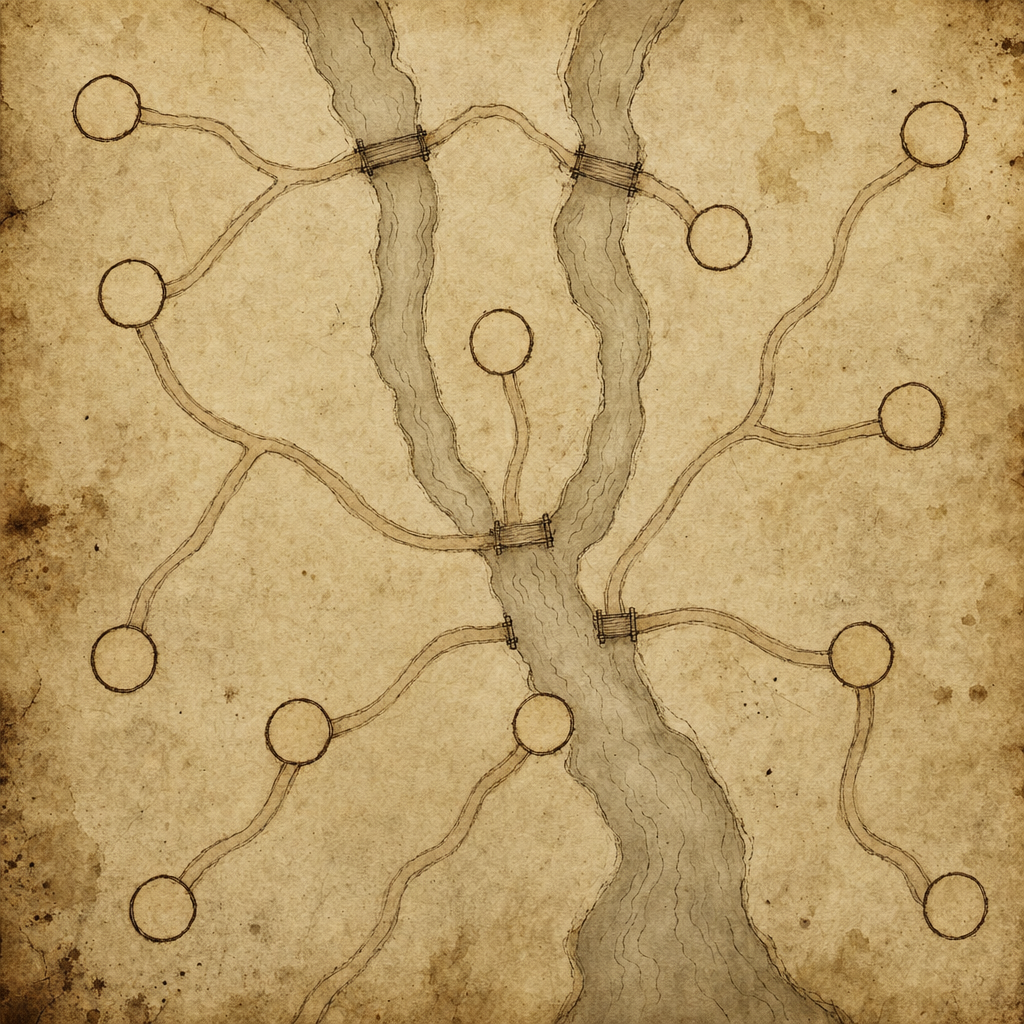
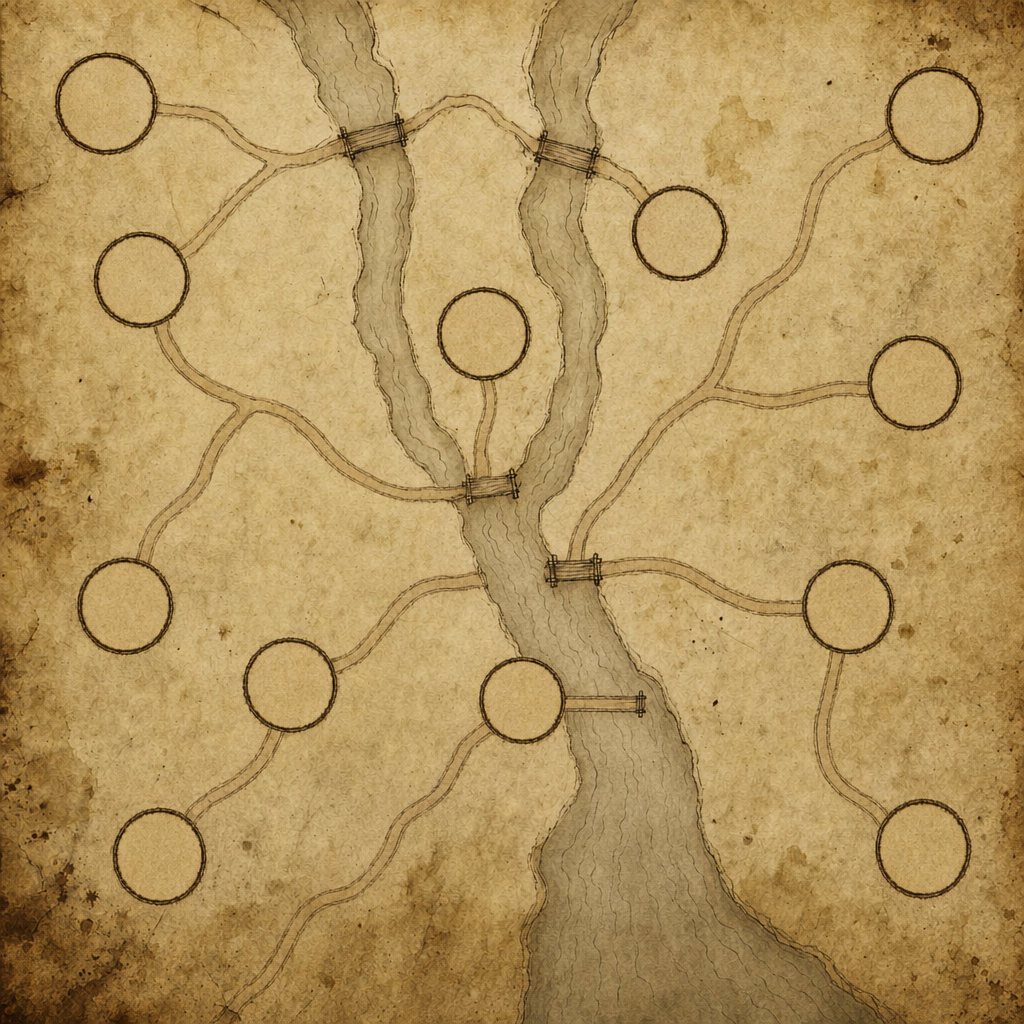
Cabin: Bruno's edited map with bigger circles, spots measured again (D179)

diff --git a/CLAUDE.md b/CLAUDE.md
@@ -39,7 +39,7 @@ All four JS files are concatenated into one IIFE by `build.py`, so they share sc
 - **Single file:** `python3 build.py --embed` if someone needs one self-contained HTML (several MB).
 
 ## Godot version (the real game from now on, D158)
-`godot/` is the Godot 4.7 project. Since D177 it opens on the cabin (`godot/cabin/`: the map on a candle-lit wooden table, carved landmark miniatures; `-- --shot` saves tests/cabin-1..3.png; map from `art-pipeline/cabin_map.py`, miniatures from `art-pipeline/miniature.py`; since D179 the map is Bruno's hand-drawn `art/source/ui/map.png` and `SPOTS` in `cabin.gd` holds each landmark's measured circle). Before that the town (`godot/town/`, D169 to D176, tag `archive/town-3d-d176`); the earlier table, board and HUD are archived in `godot/archive/` (git tag `archive/table-d168`). The web page stays as the reference until Bruno approves the Godot version.
+`godot/` is the Godot 4.7 project. Since D177 it opens on the cabin (`godot/cabin/`: the map on a candle-lit wooden table, carved landmark miniatures; `-- --shot` saves tests/cabin-1..3.png; map from `art-pipeline/cabin_map.py`, miniatures from `art-pipeline/miniature.py`; since D179 the map is Bruno's hand-drawn `art/source/ui/map02.png` and `SPOTS` in `cabin.gd` holds each landmark's measured circle). Before that the town (`godot/town/`, D169 to D176, tag `archive/town-3d-d176`); the earlier table, board and HUD are archived in `godot/archive/` (git tag `archive/table-d168`). The web page stays as the reference until Bruno approves the Godot version.
 ```
 godot --path godot                # the town (right-drag turn, left/middle drag or WASD move, wheel zoom)
 godot --path godot -- --shot      # saves tests/town-1..4.png and quits

diff --git a/docs/DECISIONS.md b/docs/DECISIONS.md
@@ -616,4 +616,5 @@ Three candidates came from Nano Banana (`gemini-3.1-flash-image`) for a seamless
 - Made in Higgsfield from a text-only prompt, no reference image; source `art/source/ui/map.png` (1024 px), copied to `godot/assets/cabin/map.png` (mipmaps on) and `art-pipeline/out/cabin/map-drawn.png`.
 - The circles did not land on the board percentages, so the cabin places each miniature on its circle: `SPOTS` in `cabin.gd`, measured by a ring fit (all radius 31 to 33 px). Each landmark takes the nearest circle to its old spot; the morgue moves from the islands to the right bank, the hospital stays on the island.
 - The circles are 6.2 cm across, so the miniatures shrink to fit: the wooden base fills the ring (`RING`), the ink just showing around it. About 5 cm across instead of 7.5 cm (the cathedral the same size as the rest).
-- Known flaw in the drawing: the bridge left of the lower river has a road on one bank only.
+- Then Bruno edited it for bigger circles and the broken bridge (`art/source/ui/map02.png`, now the cabin map). The edit moved every circle a little, so `SPOTS` were measured again; rings are 40 to 48 px (`RING` 4.3 cm), the miniatures about 6.5 cm across.
+- Known flaws in map02: the road from the left still stops at the lower river's left bank, and the new bridge by the docks reaches the right bank with no road beyond it.
